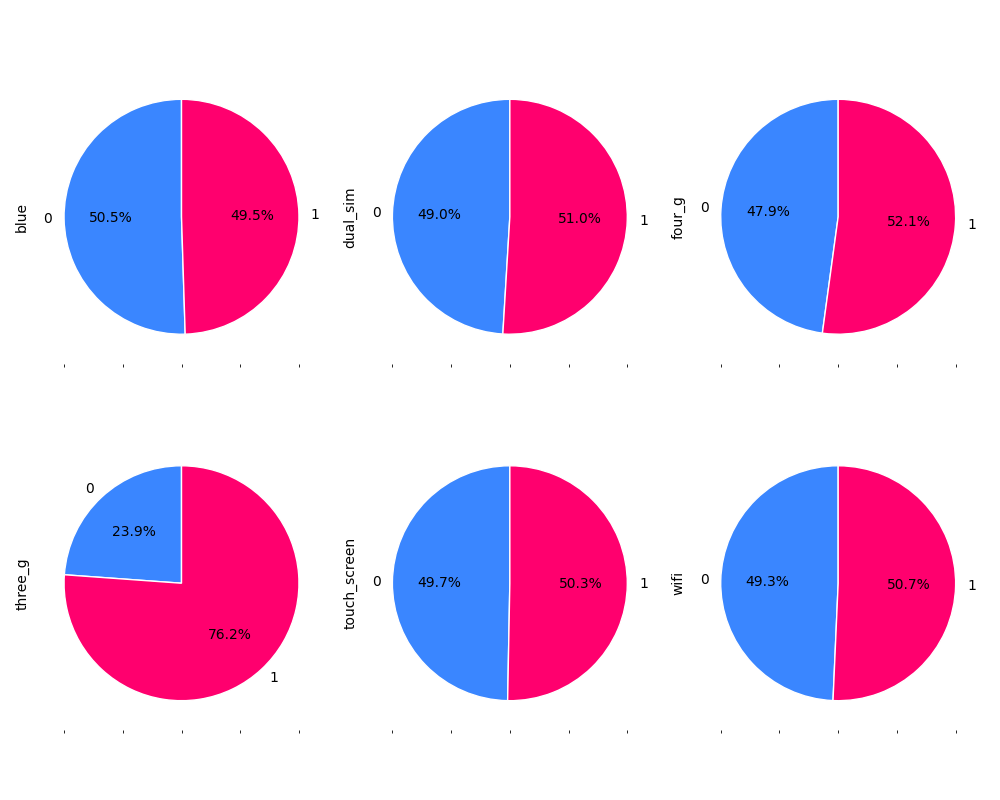
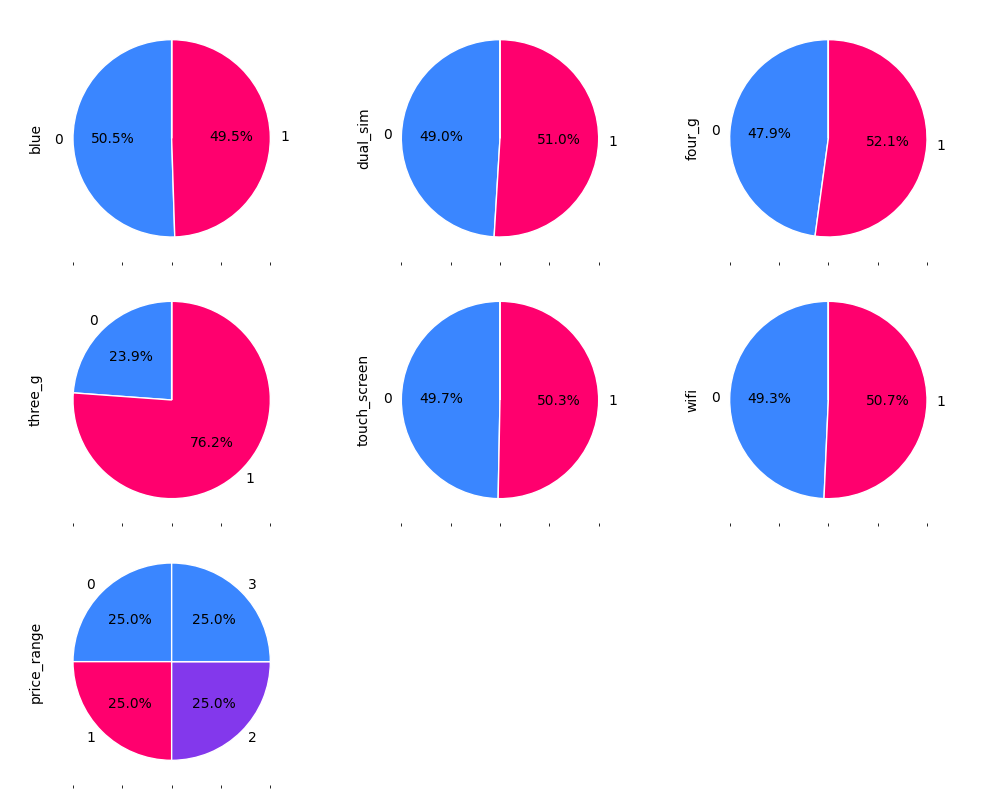
Update variable plots

diff --git a/code/visualization.py b/code/visualization.py
@@ -15,34 +15,37 @@ print(df.head())
 color_palette = ["#3a86ff", "#ff006e", "#8338ec"]
 
 # Wybieramy kolumny z max 3 unikalnymi wartościami (binarne i 3-wartościowe)
-bin_columns = [col for col in df.columns if df[col].nunique() <= 3]
+bin_columns = [col for col in df.columns if df[col].nunique() <= 4]
 nonbin_columns = [col for col in df.columns if col not in bin_columns]
-print("Kolumny binarne i 3-wartościowe:", bin_columns)
-axes = df[nonbin_columns].hist(figsize=(12, 10), layout=(4, 4), color=color_palette[0], edgecolor='black', grid=False)
+print("Kolumny binarne i 3/4-wartościowe:", bin_columns)
+axes = df[nonbin_columns].hist(
+    figsize=(12, 10),
+    layout=(4, 4),
+    color=color_palette[0],
+    edgecolor="black",
+    grid=False,
+)
 
 
 for ax in axes.flatten():
-    ax.tick_params(axis='both', labelsize=8)
+    ax.tick_params(axis="both", labelsize=8)
 
 plt.tight_layout()
 plt.show()
 # Wyświetlamy boxploty dla kolumn niebinarnych
-ax = (
-    df[nonbin_columns]
-    .plot(
-        kind="box",
-        subplots=True,
-        figsize=(12, 10),
-        layout=(5, 5),
-        color=color_palette[1],
-    )
+ax = df[nonbin_columns].plot(
+    kind="box",
+    subplots=True,
+    figsize=(12, 10),
+    layout=(5, 5),
+    color=color_palette[1],
 )
 
 plt.tight_layout()
 plt.show()
 
 
-print("Kolumny binarne i 3-wartościowe:", bin_columns)
+print("Kolumny binarne i 3/4-wartościowe:", bin_columns)
 
 # Wykresy kołowe
 ax = (
@@ -52,11 +55,11 @@ ax = (
         kind="pie",
         subplots=True,
         figsize=(10, 8),
-        layout=(2, 3),
+        layout=(3, 3),
         colors=color_palette,
-        autopct=lambda p: f'{p:.1f}%' if p > 0 else '',
+        autopct=lambda p: f"{p:.1f}%" if p > 0 else "",
         startangle=90,
-        wedgeprops={'edgecolor': 'white'},
+        wedgeprops={"edgecolor": "white"},
         legend=False,
     )
 )
@@ -71,9 +74,9 @@ ax = (
         kind="bar",
         subplots=True,
         figsize=(10, 8),
-        layout=(2, 3),
+        layout=(3, 3),
         color=color_palette,
-        edgecolor='black',
+        edgecolor="black",
         legend=False,
     )
 )
